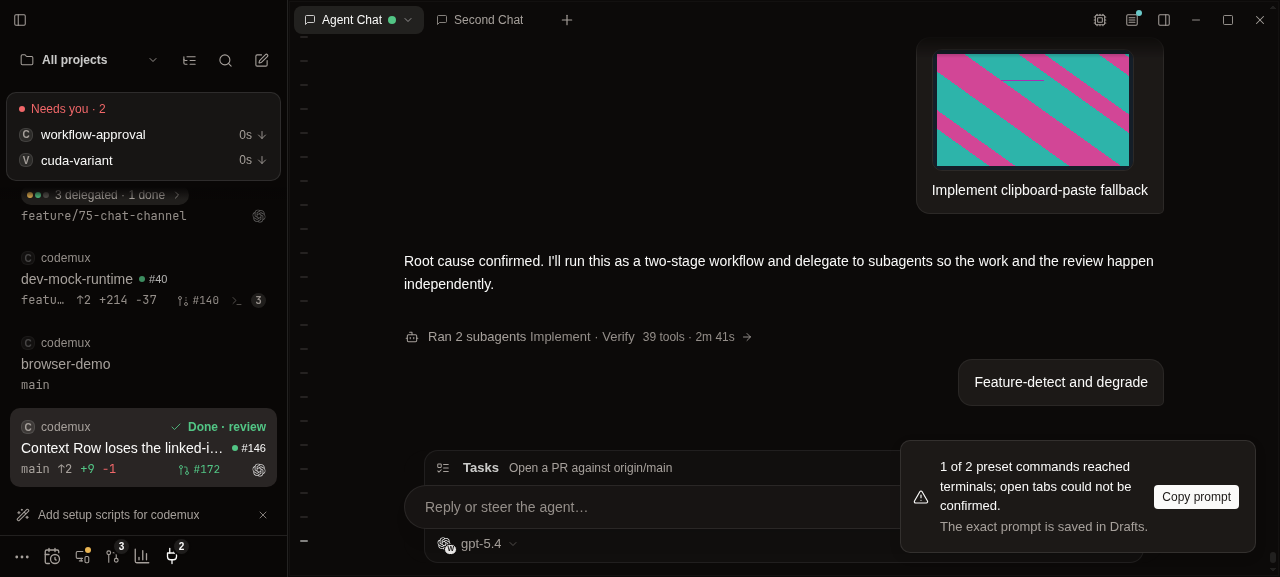
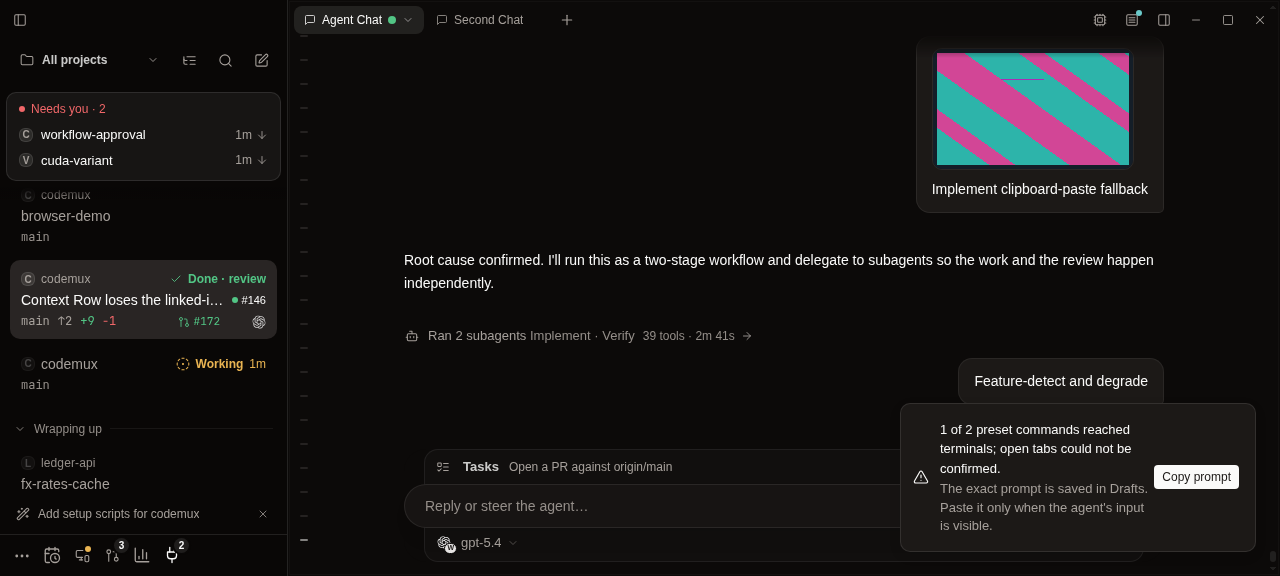
fix(presets): guide prompt paste after confirmed delivery

diff --git a/src/lib/workspace-prompt-handoff.test.ts b/src/lib/workspace-prompt-handoff.test.ts
@@ -28,6 +28,7 @@ it("saves and copies the exact prepared prompt", async () => {
 
   const options = vi.mocked(toast.success).mock.calls[0][1];
   expect(options?.action).toMatchObject({ label: "Copy prompt" });
+  expect(options?.description).toContain("Paste it only when the agent's input is visible");
   const action = options?.action;
   if (!action || typeof action !== "object" || !("onClick" in action)) {
     throw new Error("Copy action missing");
@@ -48,6 +49,7 @@ it("warns and retains the prompt when a terminal command was not confirmed", () 
     "Agent could not start",
     expect.objectContaining({ action: expect.objectContaining({ label: "Copy prompt" }) }),
   );
+  expect(vi.mocked(toast.warning).mock.calls[0][1]?.description).toBe("The exact prompt is saved in Drafts.");
   expect(toast.success).not.toHaveBeenCalled();
 });
 
@@ -60,6 +62,7 @@ it("offers to reopen a confirmed terminal after a partial launch", async () => {
   expect(saved.manualPromptRequired).toBe(true);
   const options = vi.mocked(toast.warning).mock.calls[0][1];
   expect(options?.action).toMatchObject({ label: "Copy prompt" });
+  expect(options?.description).toContain("Paste it only when the agent's input is visible");
   expect(options?.cancel).toMatchObject({ label: "Open terminal" });
   const cancel = options?.cancel;
   if (!cancel || typeof cancel !== "object" || !("onClick" in cancel)) {

diff --git a/src/lib/workspace-prompt-handoff.ts b/src/lib/workspace-prompt-handoff.ts
@@ -15,7 +15,9 @@ export function saveWorkspacePrompt(
   if (!prompt) return;
   useChatDraftStore.getState().saveWorkspacePrompt(workspaceId, prompt, commandDelivered);
   toast[tone](message, {
-    description: "The exact prompt is saved in Drafts.",
+    description: commandDelivered
+      ? "The exact prompt is saved in Drafts. Paste it only when the agent's input is visible."
+      : "The exact prompt is saved in Drafts.",
     duration: 10_000,
     action: {
       label: "Copy prompt",
